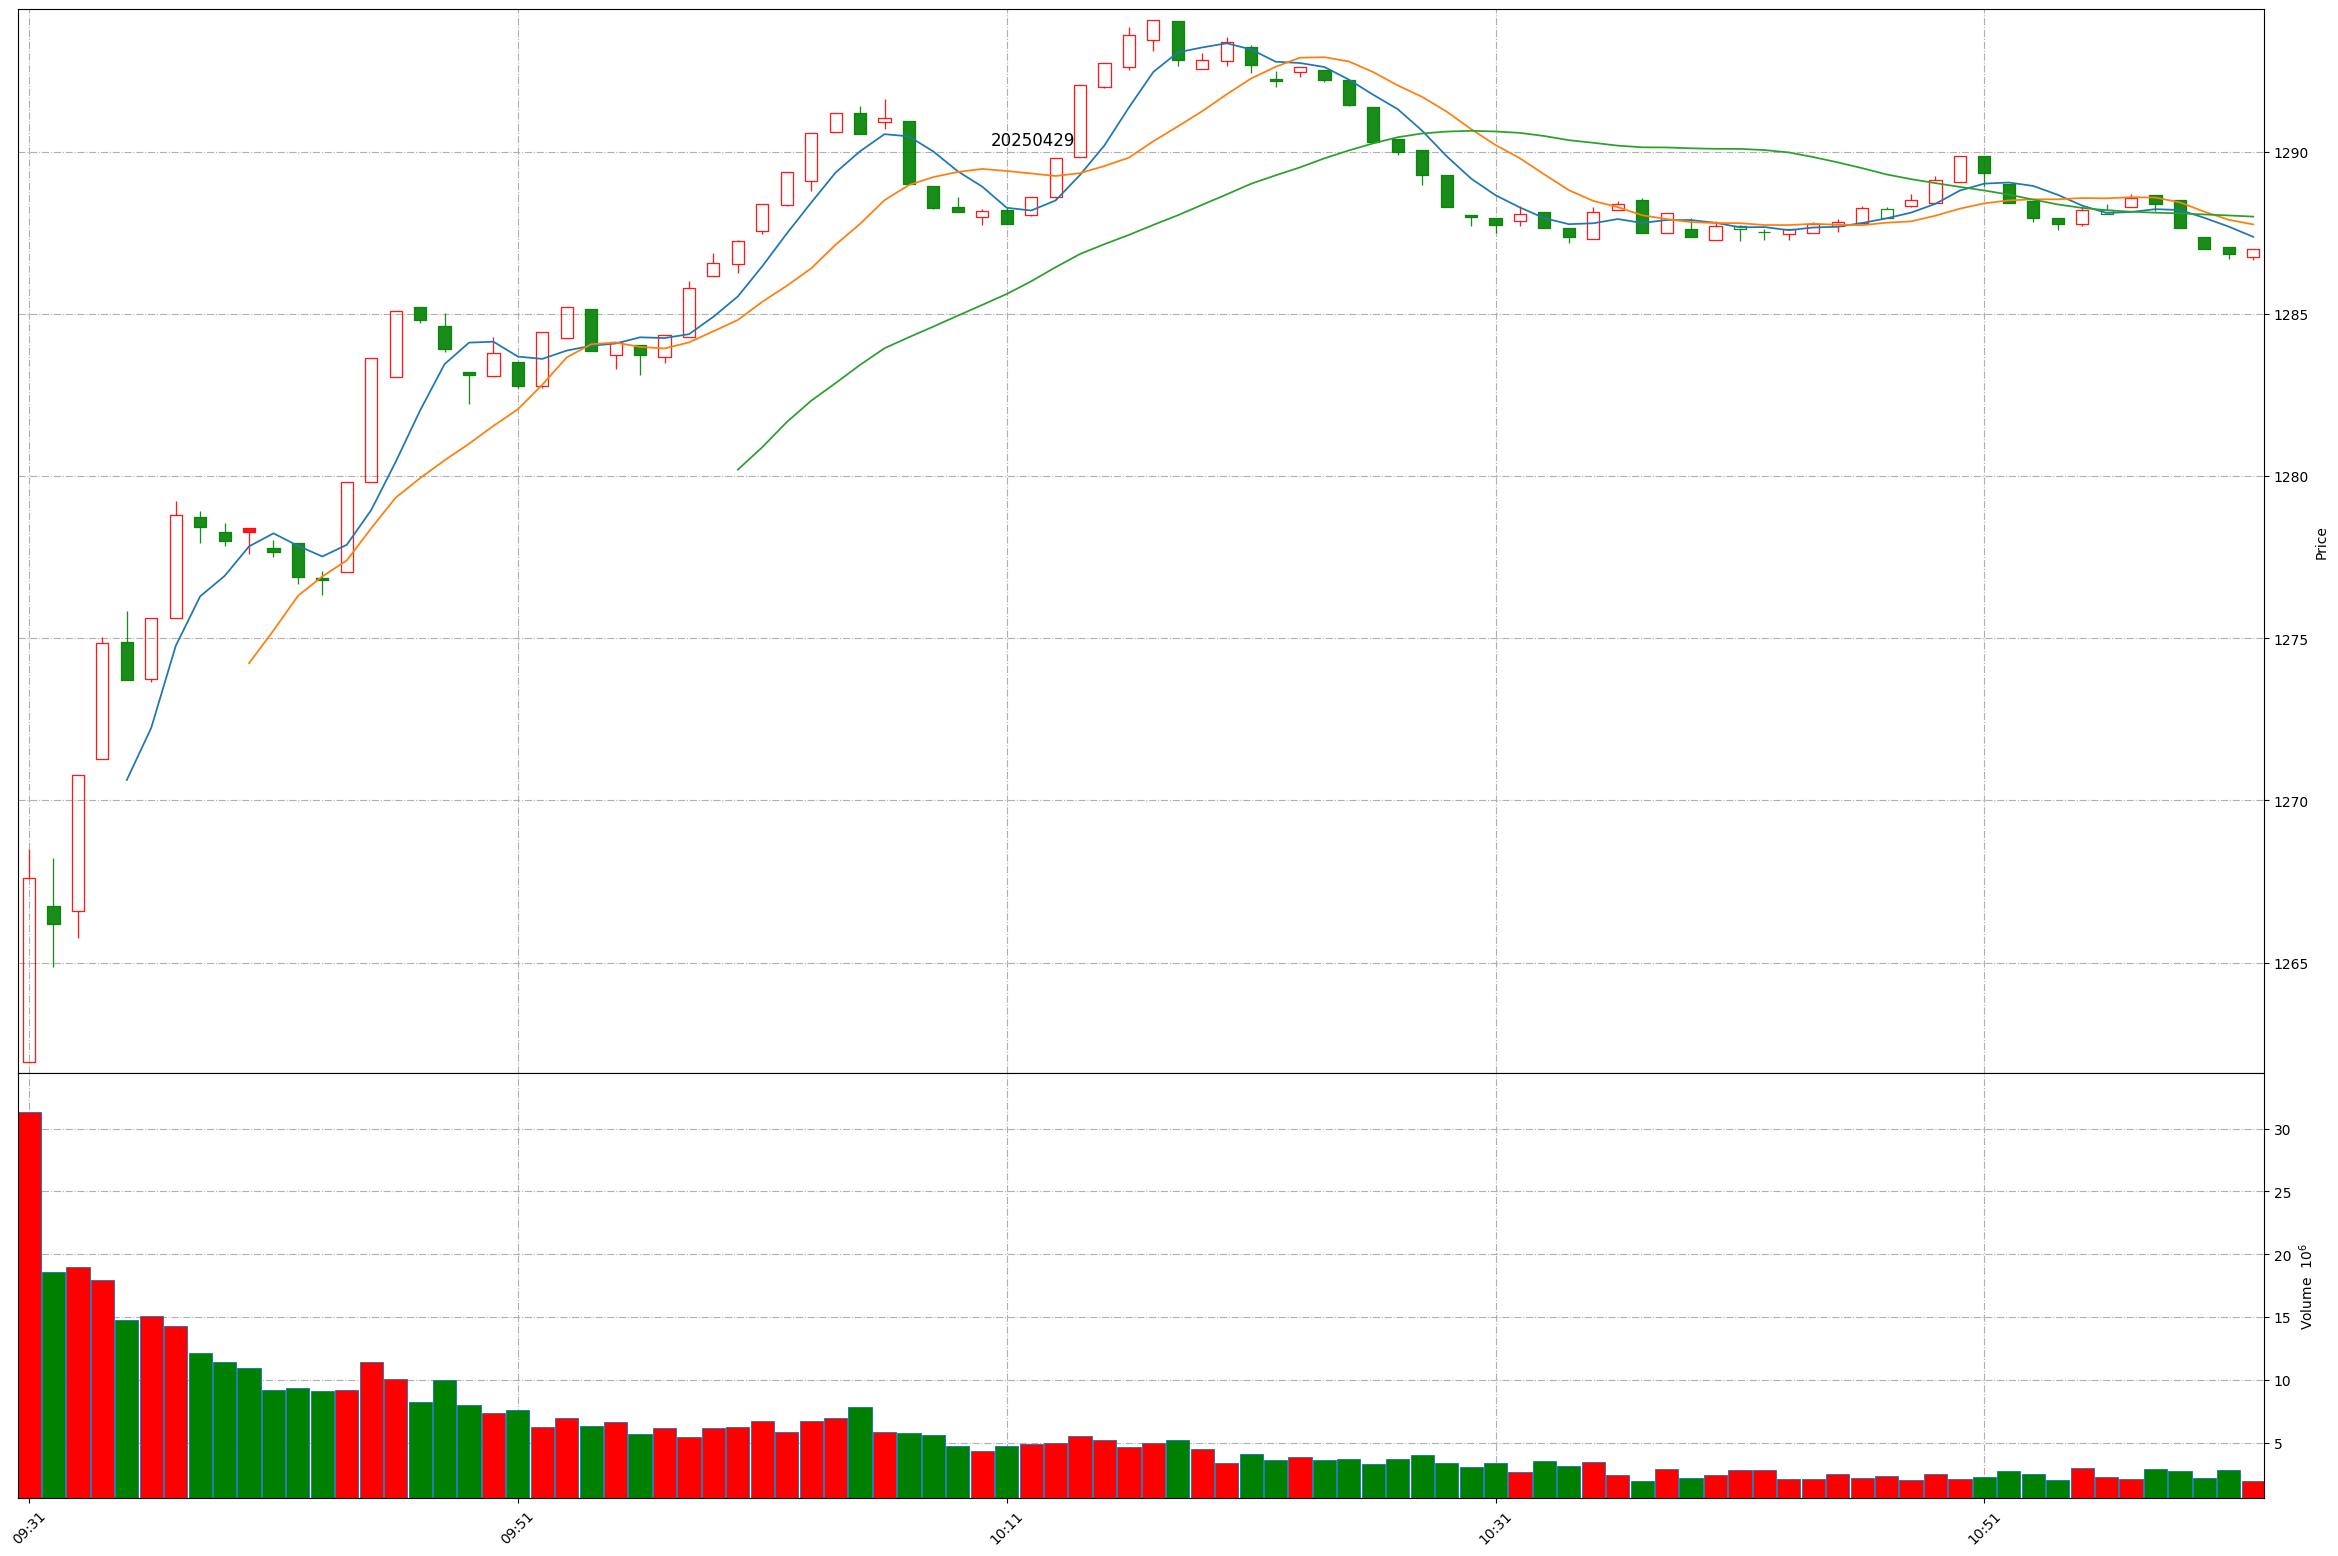
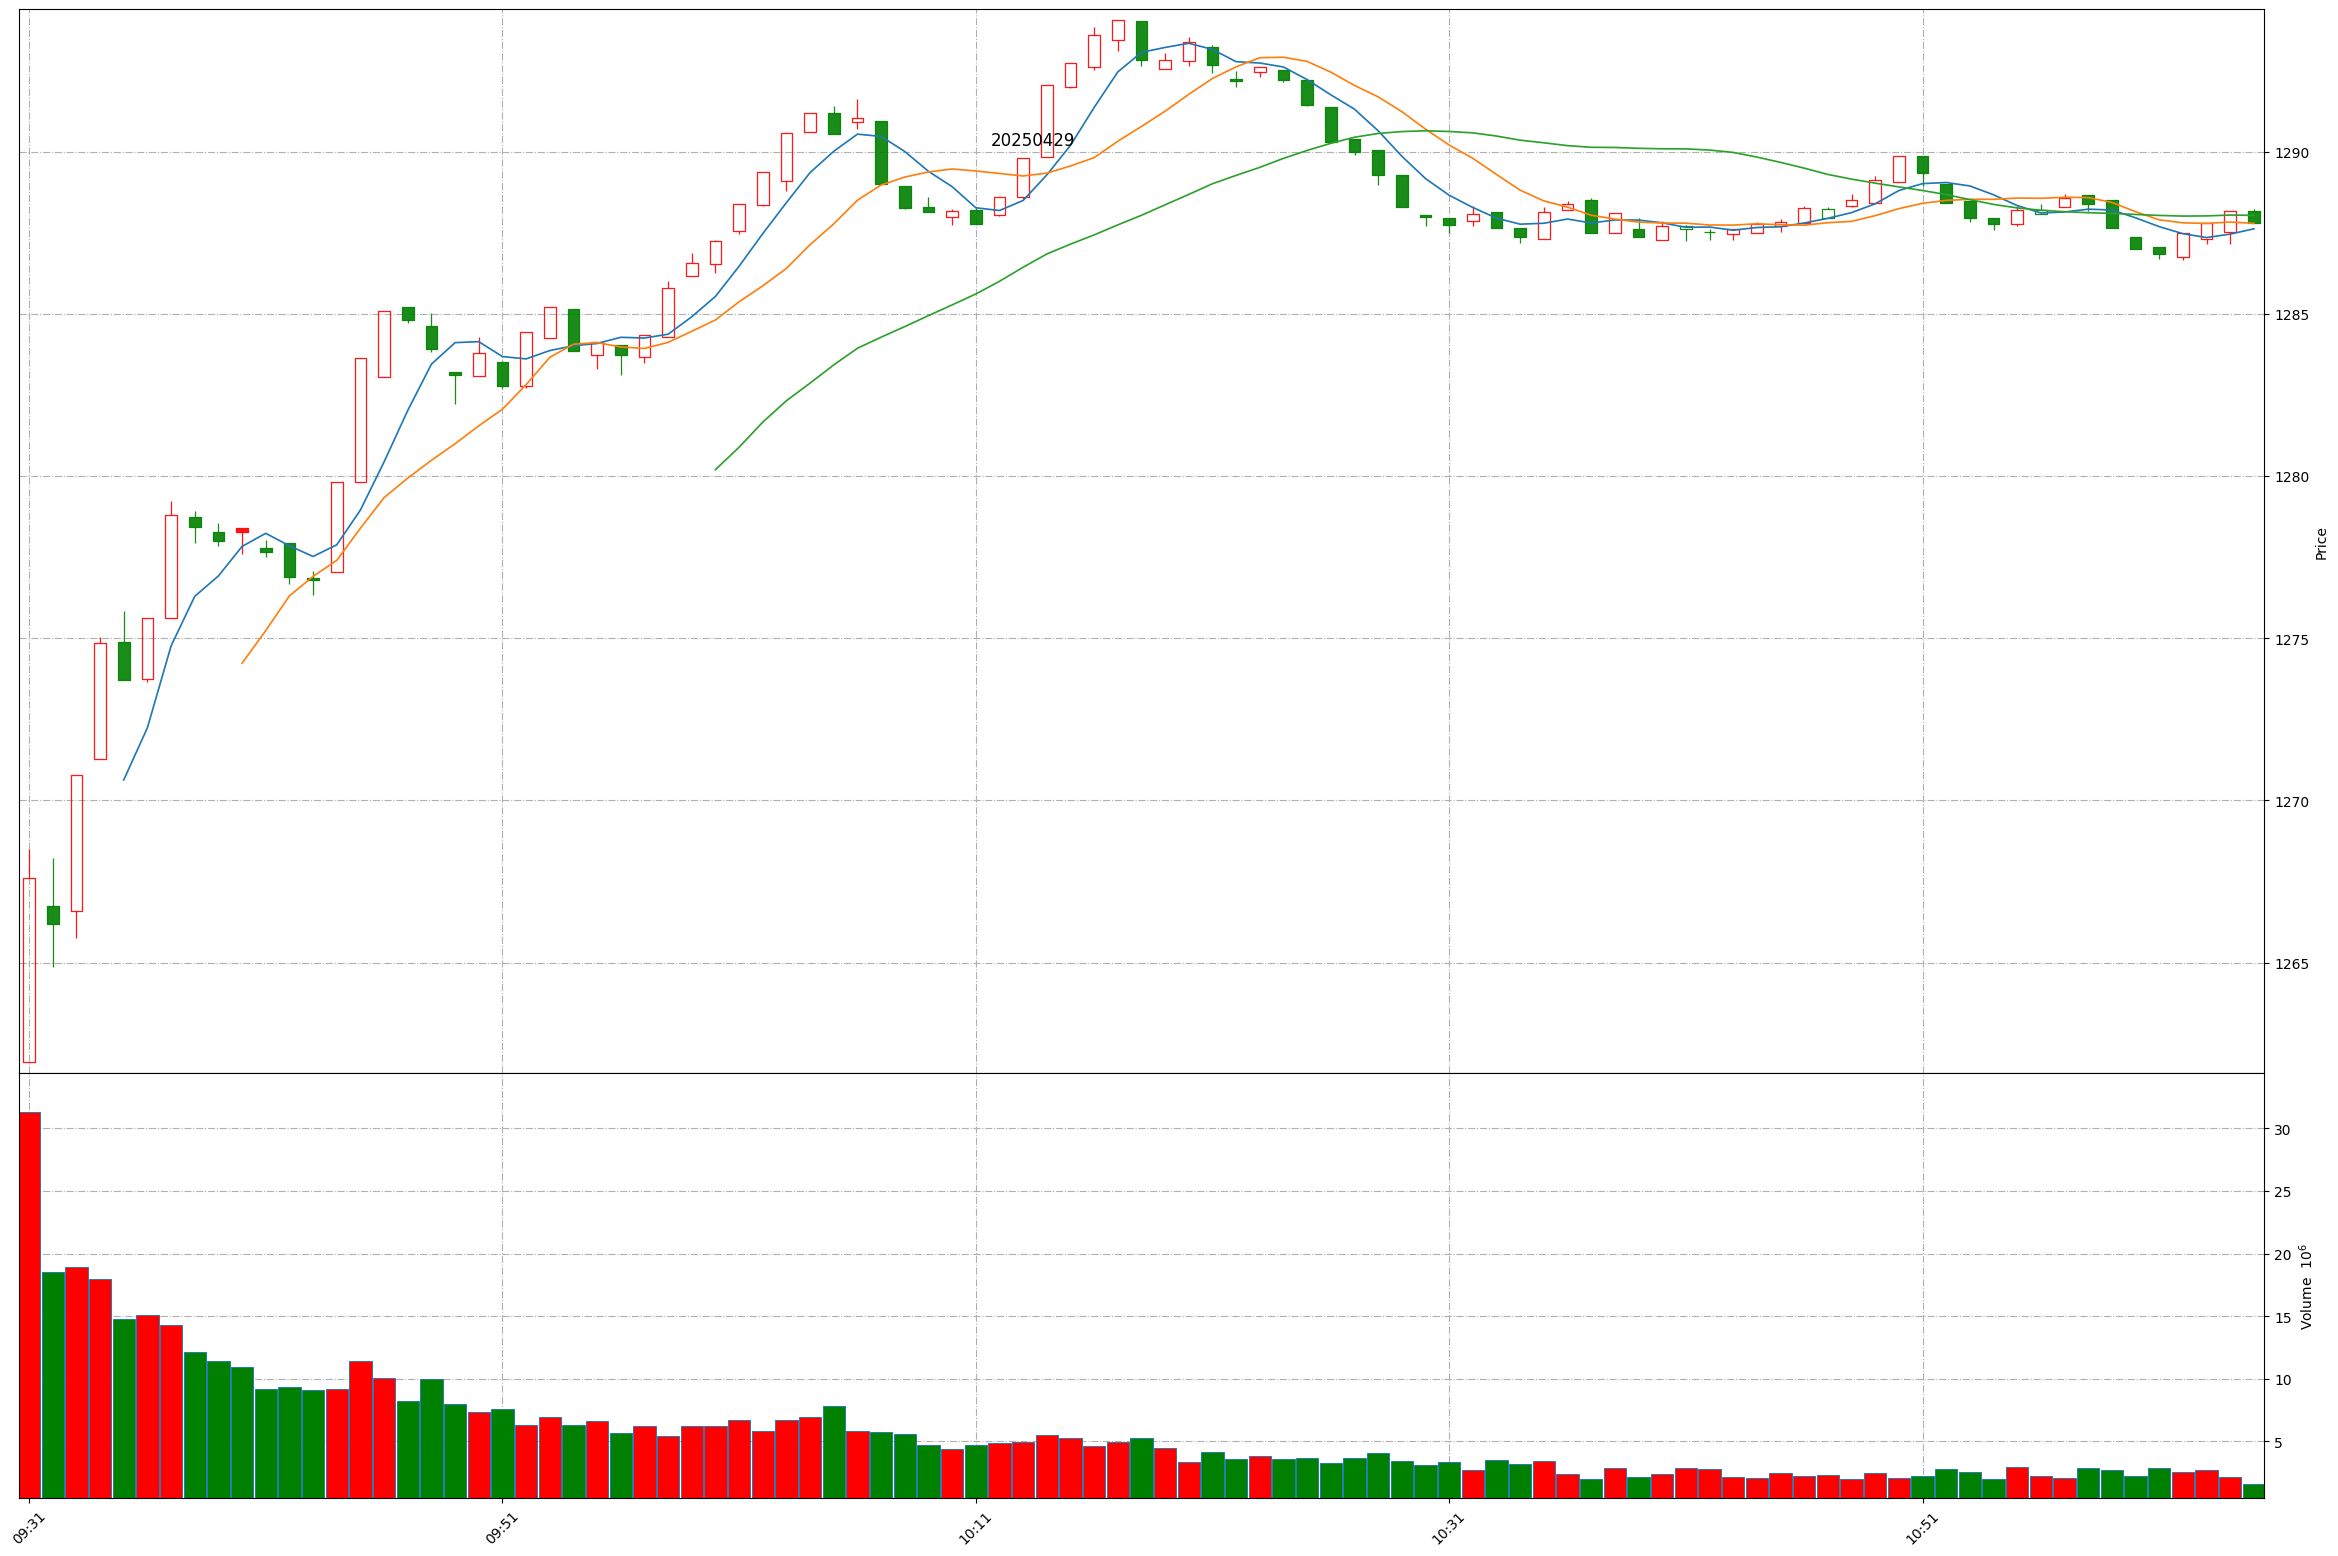
Github action update at 2025-04-29 11:05:05.

Changed region(s): [[0.0312, 0.0, 0.9679, 0.4936], [0.0312, 0.8329, 0.9679, 0.9871], [0.4059, 0.1851, 0.4371, 0.2159]]

diff --git a/README.md b/README.md
@@ -1,11 +1,11 @@
 
 # Daily-A-share-market-quotes 每日 A 股指数（5min 更新）- 20250429
 
-### 上证指数 20250429 11:2
+### 上证指数 20250429 11:5
 ![](./fig/2025/4/20250429-sh000001.png)
 
-### 深证成指 20250429 11:2
+### 深证成指 20250429 11:5
 ![](./fig/2025/4/20250429-sz399001.png)
 
-### 北证50 20250429 11:2
+### 北证50 20250429 11:5
 ![](./fig/2025/4/20250429-bj899050.png)
